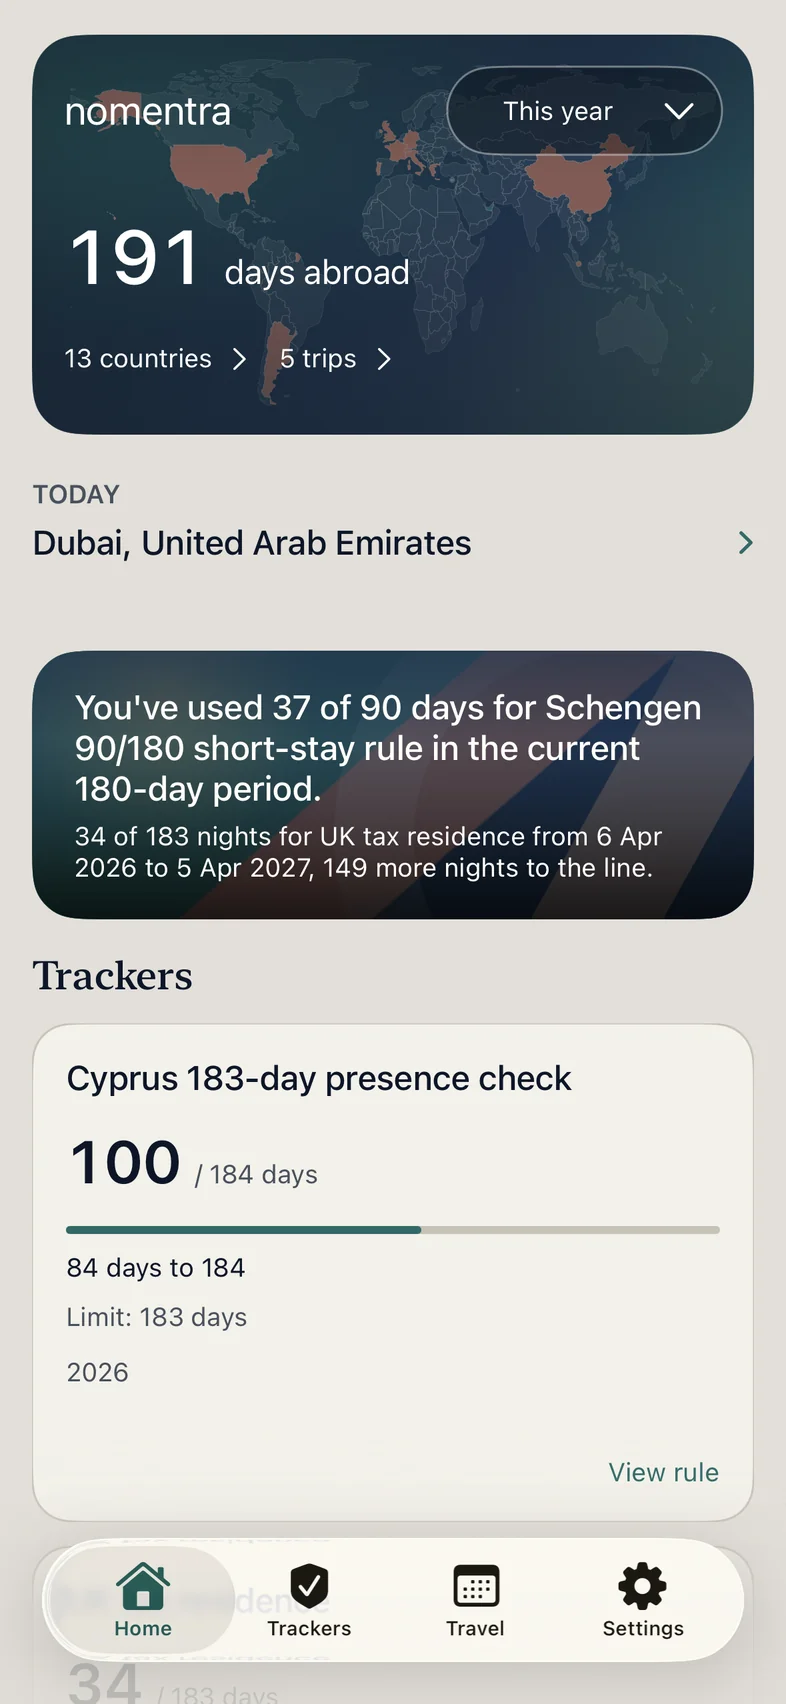
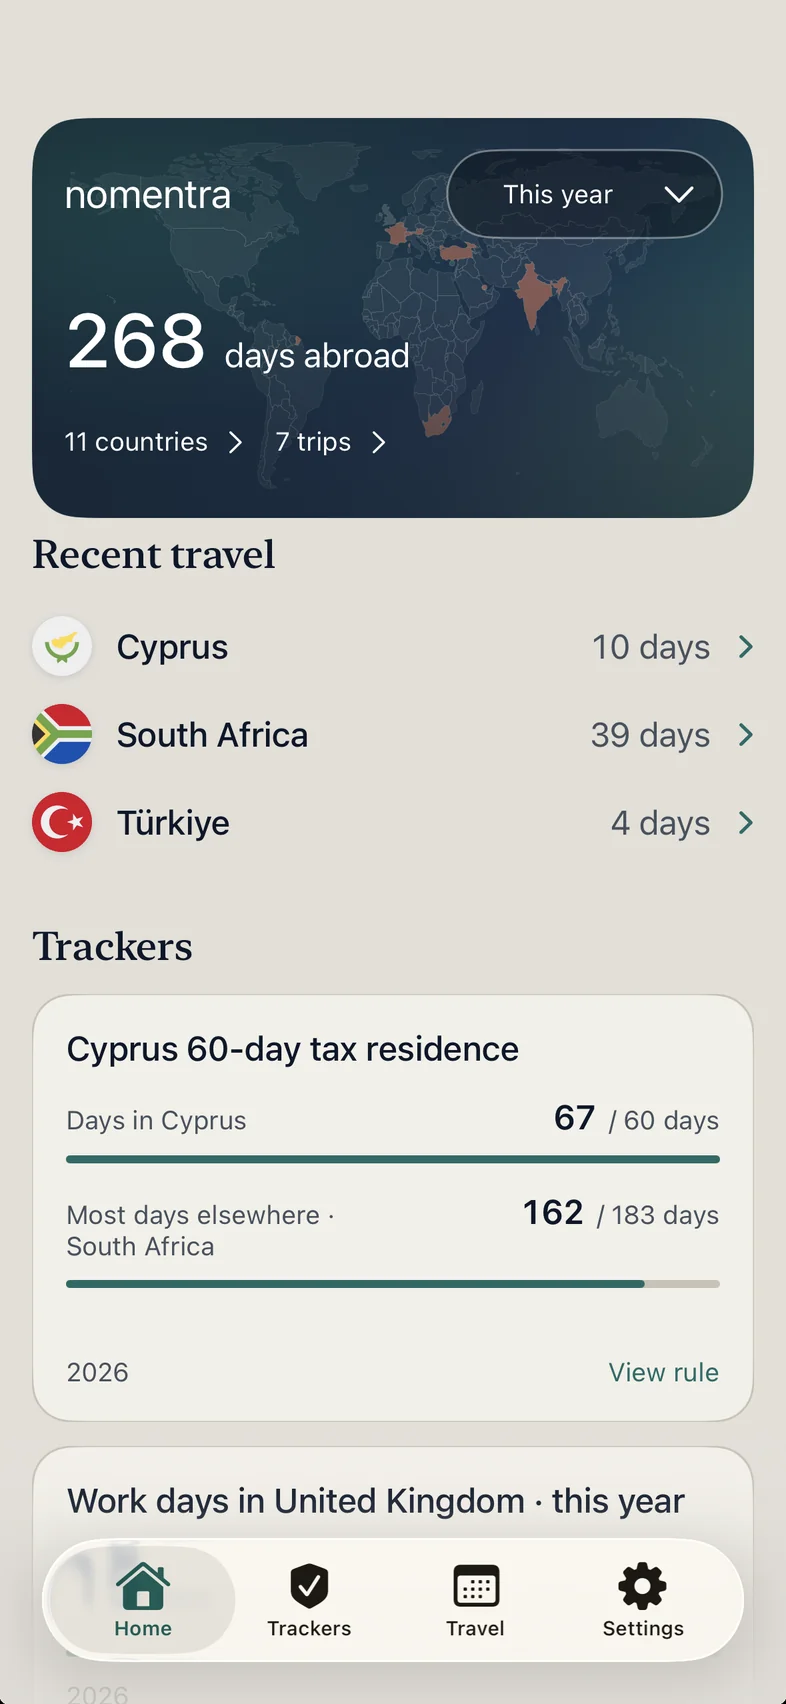
Replace the outdated Home image with the current Home screen
The owner supplied a screenshot of Home on 1.0.1 (hero, Recent travel and
tracker cards) on 14 November 2026. The status bar is painted over with the
canvas colour; alt text and README sources updated.

diff --git a/index.html b/index.html
@@ -55,7 +55,7 @@
     <p class="lede">Nomentra reads the photos already on your iPhone and builds your travel history: every country, every trip, every day, with your pictures on it. From that history it collects your achievements, from capitals to World Heritage sites, and counts the days that matter for tax and visa rules, with the official rule one tap away. Your photos and videos stay in your photo library.</p>
     <figure class="phones">
       <div class="phones-row">
-        <div class="phone"><img src="assets/app-home-ribbon.webp" width="786" height="1704" alt="Nomentra Home with travel totals, today’s country and a selected tracker."></div>
+        <div class="phone"><img src="assets/app-home-ribbon.webp" width="786" height="1704" alt="Nomentra Home with travel totals, recent travel and trackers."></div>
         <div class="phone"><img src="assets/app-tracker-detail.webp" width="786" height="1704" alt="The Cyprus 183-day presence check with its count, remaining days and monthly breakdown."></div>
         <div class="phone"><img src="assets/app-achievements.webp" width="786" height="1704" loading="lazy" alt="Achievements in Nomentra: Country Collector, US states, UNESCO World Heritage and Capitals in Asia."></div>
       </div>

diff --git a/README.md b/README.md
@@ -17,7 +17,8 @@ Static website for Nomentra: plain HTML and one stylesheet. No build step, no sc
 
 ## Sources
 
-- **App images**: captured on 14 October 2026 from app `main` at `7a054ed7` by the mounted capture suite `NomentraTests/Features/Verification/SiteStoreCaptureTests.swift` (`website()`), a 393 × 852 pt window rendered at 3×, light appearance. The data is benchmark persona P04 (Cyprus-based mobile resident, `NomentraTests/Fixtures/FirstScanRealityBenchmark/expected/personas/P04.json`) loaded through the app's DEBUG testing-profile loader and the shipping first-scan path, its 2025 dates moved forward by exactly one year and cut at the capture clock (14 October 2026, 18:00 in Cyprus). Its located photos show the app's own bundled catalogue pictures, added to the simulator's Photos library. Synthetic data only. Slots under `captures/`: `home-ribbon.png`, `tracker-detail.png`, `calendar-month.png`, `country-page.png`, `trip-page.png`; run `python3 tools/update-captures.py`, then describe each image in its alt text in `index.html`, with the figures it shows.
+- **Home image** (`app-home-ribbon.webp`): the owner's own iPhone screenshot of Home on 1.0.1, supplied on 14 November 2026 to replace the outdated October Home capture; the status bar is painted over with the canvas colour so it matches the other images. It shows the owner's own history, not synthetic data. The previous capture is kept locally as `captures/home-ribbon-2026-10-16.png`.
+- **Other app images**: captured on 14 October 2026 from app `main` at `7a054ed7` by the mounted capture suite `NomentraTests/Features/Verification/SiteStoreCaptureTests.swift` (`website()`), a 393 × 852 pt window rendered at 3×, light appearance. The data is benchmark persona P04 (Cyprus-based mobile resident, `NomentraTests/Fixtures/FirstScanRealityBenchmark/expected/personas/P04.json`) loaded through the app's DEBUG testing-profile loader and the shipping first-scan path, its 2025 dates moved forward by exactly one year and cut at the capture clock (14 October 2026, 18:00 in Cyprus). Its located photos show the app's own bundled catalogue pictures, added to the simulator's Photos library. Synthetic data only. Slots under `captures/`: `home-ribbon.png`, `tracker-detail.png`, `calendar-month.png`, `country-page.png`, `trip-page.png`; run `python3 tools/update-captures.py`, then describe each image in its alt text in `index.html`, with the figures it shows.
 - **Regenerating the images** (after a merge to app `main`; the suite lives on app branch `tools/site-captures-20261014` until merged): from the app checkout, with an iPhone 17 Pro Max simulator booted, one command builds, prepares the simulator's synthetic Photos library, runs the suite and copies the PNGs:
 
   ```
